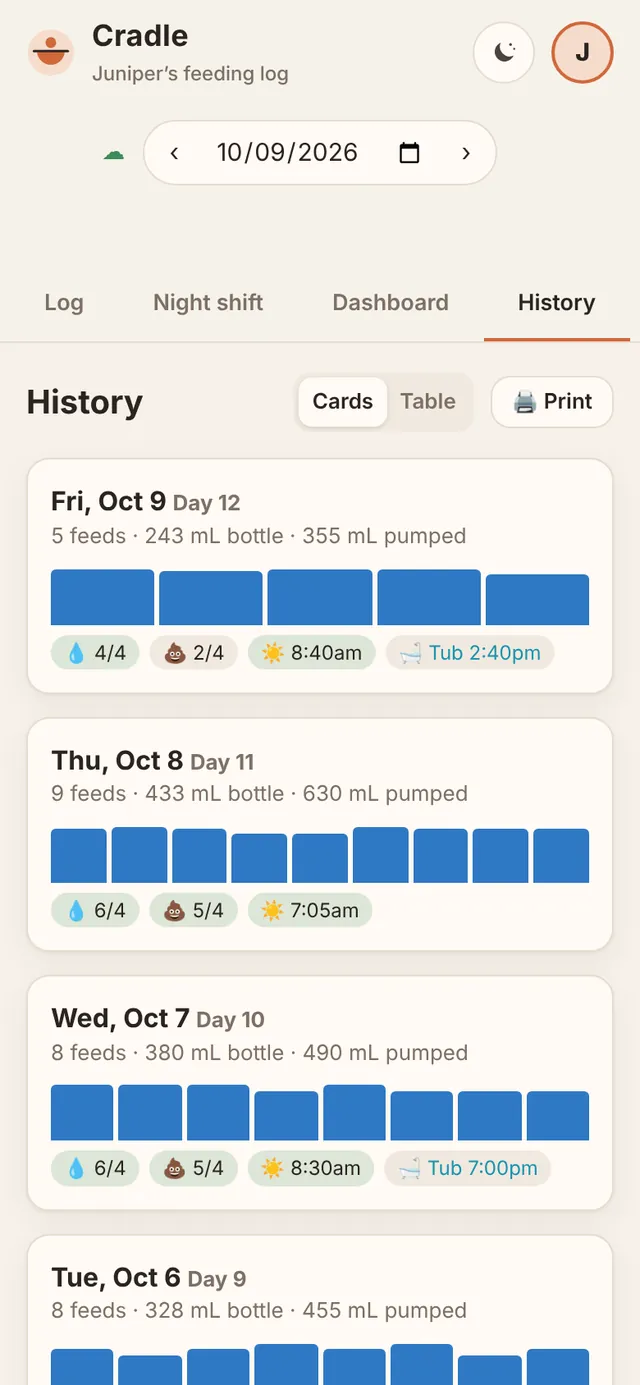
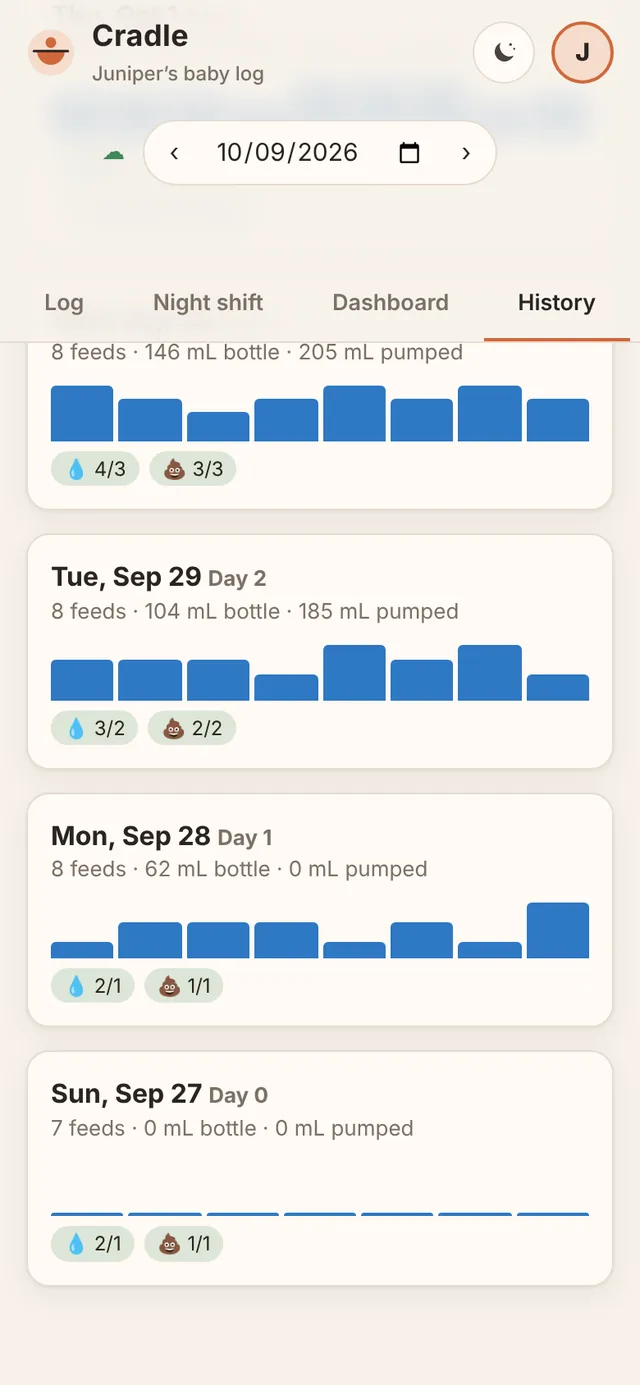
New tagline: "Family baby log" and "Baby log"
Cradle works however a baby is fed, so the tagline no longer says
triple-feeding.

- Splash and sign-in: "Family baby log"
- Everywhere else: "Baby log" (header, or "Juniper's baby log"; profile
  menu; About; browser tab; installed app name and description; printed
  day sheet; doctor report footer; family welcome; share invite)
- README, overview, and the Using Cradle guide say Cradle is built for
  triple feeding and works just as well for nursing or bottles alone
- Screenshots retaken with the new header

Claude-Session: https://claude.ai/code/session_01C2LP9XX3HMhgrsmSLqk1xr

Changed region(s): [[0.0312, 0.2484, 0.9375, 1.0], [0.2812, 0.031, 0.4375, 0.0621]]

diff --git a/cradle.html b/cradle.html
@@ -3,7 +3,7 @@
 <head>
 <meta charset="utf-8">
 <meta name="viewport" content="width=device-width, initial-scale=1">
-<title>Cradle Feeding Log</title>
+<title>Cradle Baby Log</title>
 <style>
 :root{
   --bg:#f6f1ea;--panel:#fffaf4;--panel2:#f1e9df;--ink:#2b2420;--muted:#7d7066;--line:#e6dbcf;
@@ -538,7 +538,7 @@ body.night-on .toast{background:#2c2621;color:#d9c3a5}
   <div class="hrow">
     <div class="brand">
       <svg viewBox="0 0 32 32" aria-hidden="true"><circle cx="16" cy="16" r="15" fill="var(--accent-soft)"/><path d="M7 15h18a9 9 0 0 1-18 0z" fill="var(--accent)"/><circle cx="16" cy="9.5" r="3.5" fill="var(--accent)"/><path d="M5 15h22" stroke="var(--ink)" stroke-width="1.6" stroke-linecap="round"/><g class="spots" fill="#141414"><circle cx="11" cy="19" r="1.6"/><circle cx="19" cy="21.5" r="1.3"/><circle cx="21.5" cy="17.5" r="1"/></g></svg>
-      <div>Cradle<small id="brandSub">Triple-feeding log</small></div>
+      <div>Cradle<small id="brandSub">Baby log</small></div>
     </div>
     <div class="spacer"></div>
     <span class="saved" id="saved">Saved</span>
@@ -553,7 +553,7 @@ body.night-on .toast{background:#2c2621;color:#d9c3a5}
     <div class="menu" id="menu">
       <button class="avatar" id="menuBtn" title="Profile" aria-haspopup="true"></button>
       <div class="dd" id="dd">
-        <div class="ddhead"><b id="ddName">Cradle</b><span class="sub" id="ddSub">Triple-feeding log</span><div class="sub" style="margin-top:4px">☁ <span id="ddSync">Not signed in</span></div></div>
+        <div class="ddhead"><b id="ddName">Cradle</b><span class="sub" id="ddSub">Baby log</span><div class="sub" style="margin-top:4px">☁ <span id="ddSync">Not signed in</span></div></div>
         <div class="ddlabel">Appearance</div>
         <div class="seg" id="themeSeg">
           <button data-theme="auto">Auto</button><button data-theme="light">Light</button><button data-theme="dark">Dark</button>
@@ -850,7 +850,7 @@ body.night-on .toast{background:#2c2621;color:#d9c3a5}
   <div class="gwrap">
     <div class="glogo"><svg viewBox="0 0 32 32" aria-hidden="true"><path d="M7 15h18a9 9 0 0 1-18 0z" fill="#fff5ea"/><circle cx="16" cy="9.5" r="3.5" fill="#fff5ea"/><path d="M5 15h22" stroke="#fff5ea" stroke-width="1.8" stroke-linecap="round"/></svg></div>
     <div class="gname">Cradle</div>
-    <div class="gtag">Triple-feeding log</div>
+    <div class="gtag">Family baby log</div>
     <div id="gLoading" class="gdots"><i></i><i></i><i></i></div>
     <form id="gForm" autocomplete="on"><div id="gLogin" class="card hidden">
       <label for="gUser">Username or email</label><input id="gUser" name="username" autocomplete="username" autocapitalize="none" autocorrect="off" spellcheck="false">
@@ -1004,9 +1004,11 @@ body.night-on .toast{background:#2c2621;color:#d9c3a5}
 <div class="modal" id="aboutModal">
   <div class="card">
     <h3>About Cradle</h3>
-    <p style="margin:0 0 8px"><b>Cradle v1.11</b><br><span class="sub">A triple-feeding log that works offline and syncs between family phones through your own Supabase project. No external libraries.</span></p>
+    <p style="margin:0 0 8px"><b>Cradle v1.12</b><br><span class="sub">A baby log that works offline and syncs between family phones through your own Supabase project. No external libraries.</span></p>
     <p class="sub" style="margin:0 0 8px;padding:10px 12px;border-radius:12px;background:var(--accent-soft)"><b>Not medical advice.</b> Cradle is a notebook. Goals in the app are placeholders, so follow your pediatrician or care team, and call them if you’re worried about your baby.<br><br><b>Built with AI.</b> Cradle was built with help from Claude, an AI model by Anthropic. It has been tested but not independently reviewed, so keep backups with Export data.</p>
     <h3 style="margin-top:14px">Changelog</h3>
+    <b>v1.12</b>
+    <ul class="cl"><li>New tagline: <b>Family baby log</b> on the splash and sign-in screens, and <b>Baby log</b> everywhere else, since Cradle works however your baby is fed</li></ul>
     <b>v1.11</b>
     <ul class="cl"><li>Two people can edit the same feed at once: changes to different boxes are combined instead of one overwriting the other</li><li>While you’re typing, the rest of the Log still updates, and the box you’re in is left alone</li><li>A note says who changed what when someone else’s edit arrives, and the row flashes</li><li>Weights: review them at the top of the Weights screen, and tap <b>Edit</b> to fix one. <b>See all</b> on the Dashboard opens the list.</li></ul>
     <b>v1.10</b>
@@ -1039,7 +1041,7 @@ body.night-on .toast{background:#2c2621;color:#d9c3a5}
 <script type="application/json" id="baseData">{}</script>
 <script>
 (function(){
-const VERSION='1.11';
+const VERSION='1.12';
 const LS='cradle-feeding-v1';
 const $=s=>document.querySelector(s);
 const $$=s=>document.querySelectorAll(s);
@@ -1121,10 +1123,10 @@ function applyTheme(){
 function renderProfile(){
   const n=babyName();
   $('#menuBtn').innerHTML=n?esc(n[0].toUpperCase()):'<svg viewBox="0 0 24 24" fill="none" stroke="currentColor" stroke-width="2" stroke-linecap="round"><circle cx="12" cy="8" r="4"/><path d="M4 21c1.5-4 4.5-6 8-6s6.5 2 8 6"/></svg>';
-  $('#brandSub').textContent=n?n+'’s feeding log':'Triple-feeding log';
+  $('#brandSub').textContent=n?n+'’s baby log':'Baby log';
   $('#ddName').textContent=n||'Cradle';
   const g=goals(key(new Date()));
-  $('#ddSub').textContent=g.dol!=null&&g.dol>=0?'Day '+g.dol+' of life':(S.settings.birthDate?'Triple-feeding log':'Add a birth date in Settings');
+  $('#ddSub').textContent=g.dol!=null&&g.dol>=0?'Day '+g.dol+' of life':(S.settings.birthDate?'Baby log':'Add a birth date in Settings');
 }
 $('#menuBtn').onclick=e=>{e.stopPropagation();$('#menu').classList.toggle('open')};
 document.addEventListener('click',e=>{if(!e.target.closest('#menu'))$('#menu').classList.remove('open')});
@@ -1713,7 +1715,7 @@ function finishImport(msg){pending=null;$('#importModal').classList.remove('open
 /* Print */
 function buildPrint(){
   const d=peek(cur),t=totals(d),st=S.settings,g=goals(cur),v=vitGiven(d),rows=d.feeds.slice();while(rows.length<12)rows.push(null);
-  $('#print').innerHTML=`<h1>Triple-Feeding Daily Log${babyName()?' · '+esc(babyName()):''}</h1>
+  $('#print').innerHTML=`<h1>Daily Baby Log${babyName()?' · '+esc(babyName()):''}</h1>
   <div>Date: ${parseK(cur).toLocaleDateString(undefined,{weekday:'long',year:'numeric',month:'long',day:'numeric'})} | Target bottle: ${st.target} mL | Pump: ${st.pumpMin} to ${st.pumpMax} min${g.dol!=null&&g.dol>=0?' | Day '+g.dol+' of life, goal '+g.wet+' wet / '+g.stool+' stool':''}</div>
   <table><tr><th>#</th><th>Time</th><th>Breast</th><th>Min</th><th>Bottle (mL)</th><th>Pump (mL)</th><th>Urine</th><th>Stool</th><th>Vit D</th><th>Note</th></tr>
   ${rows.map((f,i)=>f&&f.bath?`<tr><td>${i+1}</td><td>${fmt12(f.time)}</td><td colspan="7">🛁 ${bathName(f)}</td><td>${esc(f.note)}</td></tr>`:`<tr><td>${i+1}</td><td>${f?fmt12(f.time):''}</td><td>${f?[f.left?'L':'',f.right?'R':''].filter(Boolean).join(' + ')+(f.start?' (start '+f.start+')':''):'[ ] L  [ ] R'}</td><td>${f?.mins??''}${f&&f.left&&f.right&&num(f.mins)>0?' ('+splitShort(f)+')':''}</td><td>${f?.bottle??''}</td><td>${f?.pump??''}</td><td>${f?(f.urine?'✓':''):'[ ]'}</td><td>${f?(f.stool?'✓':''):'[ ]'}</td><td>${f?(f.vitD?'✓':''):'[ ]'}</td><td>${f?esc(f.note):''}</td></tr>`).join('')}</table>
@@ -2032,7 +2034,7 @@ function buildReport(){
   ${notes.length?`<h3 style="margin:12px 0 4px;font-size:14px">Notes</h3>${notes.map(x=>`<div><b>${dlong(x.dt)}:</b> ${esc(x.d.notes)}</div>`).join('')}`:''}
   <h3 style="margin:14px 0 4px;font-size:14px">Questions for the visit</h3>
   ${'<div style="border-bottom:1px solid #999;height:22px"></div>'.repeat(4)}
-  <div style="margin-top:10px;color:#666;font-size:10px">From Cradle, a home feeding log. Volumes are as logged by parents.</div></div>`;
+  <div style="margin-top:10px;color:#666;font-size:10px">From Cradle, a home baby log. Volumes are as logged by parents.</div></div>`;
 }
 function printReport(){printMode='report';buildReport();document.body.classList.add('print-sheet');printFired=false;
   setTimeout(()=>{try{window.print()}catch(e){}setTimeout(()=>{if(!printFired){document.body.classList.remove('print-sheet');printMode=null;showBlocked('print')}},700)},50)}
@@ -2496,7 +2498,7 @@ function renderFamilyBits(){const el=$('#ddFam');if(el)el.textContent=CL.fam?CL.
 function showWelcome(){
   const nm=babyName();
   $('#welTitle').textContent='Welcome to Cradle';
-  $('#welBody').innerHTML=`<p style="margin:0 0 10px">You’re now part of <b>${esc(famName())}</b>${nm?', sharing the feeding log for <b>'+esc(nm)+'</b>':''}. Every feed, diaper, and note you log shows up for everyone in the family, and theirs show up for you, usually within a few seconds.</p>
+  $('#welBody').innerHTML=`<p style="margin:0 0 10px">You’re now part of <b>${esc(famName())}</b>${nm?', sharing the baby log for <b>'+esc(nm)+'</b>':''}. Every feed, diaper, and note you log shows up for everyone in the family, and theirs show up for you, usually within a few seconds.</p>
     <p style="margin:0 0 6px"><b>A few things to try:</b></p>
     <ul class="cl" style="margin-top:0"><li><b>+ Log feed now</b> when a feed starts</li><li><b>Night shift</b> for big, dim buttons at 3am</li><li>The <b>Dashboard</b> for trends and a doctor report</li><li><b>Change password</b> in the profile menu to make the account yours</li></ul>
     <p style="margin:10px 0 0">So glad you’re here. 💛</p>`;
@@ -2531,7 +2533,7 @@ function renderFamily(){
 $('#familyModal').addEventListener('click',async e=>{
   const t=e.target,f=CL.fam||{};
   const run=async(fn,args,msg)=>{try{CL.fam=await clRpc(fn,args);clSave();renderFamily();if(msg)toast(msg)}catch(err){toast(err.message||'Something went wrong')}};
-  const shareMsg=()=>`Join ${famName()} on Cradle, our baby feeding log.\n\n1. Open ${location.origin+location.pathname}\n2. Tap “New here? Create an account”\n3. Enter this share key: ${f.join_code}`;
+  const shareMsg=()=>`Join ${famName()} on Cradle, our baby log.\n\n1. Open ${location.origin+location.pathname}\n2. Tap “New here? Create an account”\n3. Enter this share key: ${f.join_code}`;
   if(t.id==='famInvite'){const em=$('#famEmail').value.trim();if(!em.includes('@')){toast('Enter their email address');return}await run('cradle_invite',{h:CL.household,p_email:em},'Added '+em+'. They join next time they open Cradle.')}
   else if(t.id==='famShare'){const m=shareMsg();if(navigator.share){try{await navigator.share({title:'Join us on Cradle',text:m})}catch(e){}}else{copyText(m)?toast('Invite message copied. Paste it in a text.'):toast('Key: '+f.join_code)}}
   else if(t.id==='famNewKey'){$('#familyModal').classList.remove('open');const ok=await ask('Make a new share key? The old key stops working right away. Everyone already in the family stays in.','New key');$('#familyModal').classList.add('open');if(ok)await run('cradle_new_code',{h:CL.household},'New share key ready')}

diff --git a/docs/overview.html b/docs/overview.html
@@ -206,7 +206,7 @@ footer code{font-family:var(--mono); font-size:13px}
   </div>
   <div class="hero-grid">
     <div>
-      <p class="eyebrow">Newborn triple-feeding log</p>
+      <p class="eyebrow">Baby log</p>
       <h1 style="margin-top:14px">Every feed, every diaper, <em>every 3am</em>, on one row.</h1>
       <p class="lede">Nurse, bottle top-up, pump, wet, stool, Vitamin D, and bath time, logged in a few taps and shared live with everyone on feeding duty. Built for tired hands, dark rooms, and the pediatrician's questions.</p>
       <div class="chips">
@@ -229,7 +229,7 @@ footer code{font-family:var(--mono); font-size:13px}
   <div class="sec-head">
     <p class="eyebrow">The triple-feed cycle</p>
     <h2>Three parts of one feed, logged as one row.</h2>
-    <p class="lede">Triple feeding means nursing, then a bottle top-up, then pumping, every few hours, around the clock. Cradle keeps the whole session together so the totals add up the way your care team asks about them.</p>
+    <p class="lede">Triple feeding means nursing, then a bottle top-up, then pumping, every few hours, around the clock. Cradle keeps the whole session together so the totals add up the way your care team asks about them. Only nursing, or only bottles? Use the parts you need.</p>
   </div>
   <div class="cycle">
     <div class="step"><span class="num">1 · Nurse</span><span class="big">L + R</span><p>Tap the sides you used. The first side gets a dot, so you know where to start next time. A ▶ timer fills in the minutes, and a slider splits them between sides.</p></div>

diff --git a/build_pwa.py b/build_pwa.py
@@ -57,7 +57,7 @@ head = '''<meta name="viewport" content="width=device-width, initial-scale=1, vi
 <meta name="mobile-web-app-capable" content="yes">
 <meta name="apple-mobile-web-app-capable" content="yes">
 <meta name="apple-mobile-web-app-title" content="Cradle">
-<meta name="description" content="Offline triple-feeding log for newborns">
+<meta name="description" content="Baby log that works offline and syncs between family phones">
 <link rel="manifest" href="manifest.webmanifest">
 <link rel="icon" type="image/png" sizes="192x192" href="icons/icon-192.png">
 <link rel="apple-touch-icon" href="icons/apple-touch-icon.png">'''
@@ -67,8 +67,8 @@ open(os.path.join(out, 'index.html'), 'w').write(html)
 
 # 3) manifest
 manifest = {
-  "name": "Cradle Feeding Log", "short_name": "Cradle",
-  "description": "Offline triple-feeding log for newborns",
+  "name": "Cradle Baby Log", "short_name": "Cradle",
+  "description": "Baby log that works offline and syncs between family phones",
   "start_url": "./", "scope": "./", "display": "standalone", "orientation": "portrait",
   "background_color": "#f6f1ea", "theme_color": "#d0683a",
   "icons": [

diff --git a/README.md b/README.md
@@ -4,8 +4,8 @@
 
 <h1 align="center">Cradle</h1>
 
-<p align="center"><b>A newborn triple-feeding log for tired parents.</b><br>
-Nurse, bottle top-up, pump, diapers, and Vitamin D on one row, shared live between family phones, and usable one-handed at 3am.</p>
+<p align="center"><b>A baby log for tired parents.</b><br>
+Nurse, bottle, pump, diapers, Vitamin D, and baths, shared live between family phones and usable one-handed at 3am. Built for triple feeding, and just as handy if you only nurse or only bottle feed.</p>
 
 > [!IMPORTANT]
 > **Cradle is not medical advice.** It is a notebook, not a clinical tool. Feeding and diaper goals in the app are placeholders: always follow your pediatrician, lactation consultant, or care team. **Cradle was built with AI assistance (Claude, by Anthropic).** The code was written and reviewed with an AI model, has not been independently audited, and comes with no warranty. See [DISCLAIMER.md](DISCLAIMER.md).

diff --git a/CHANGELOG.md b/CHANGELOG.md
@@ -1,5 +1,14 @@
 # Changelog
 
+## v1.12
+
+**New tagline**
+- **Family baby log** on the splash and sign-in screens; **Baby log** everywhere else:
+  - the header (or *Juniper's baby log* once the baby's name is set) and the profile menu
+  - the About dialog, the browser tab, and the installed app's name and description
+  - the printed day sheet, the doctor report footer, the family welcome, and the share invite
+- Cradle is still built around triple feeding, and the docs now say it works just as well for nursing or bottle feeding alone
+
 ## v1.11
 
 **Editing together**

diff --git a/docs/using-cradle.md b/docs/using-cradle.md
@@ -11,7 +11,7 @@ A tour of every screen, for the people doing the feeding. The same tips live in 
 
 ## The triple-feed cycle
 
-Each session has three parts: **nurse** at the breast, offer a **bottle** top-up, then **pump**. Log all three on **one row**.
+Each session has three parts: **nurse** at the breast, offer a **bottle** top-up, then **pump**. Log all three on **one row**. If you only nurse or only bottle feed, fill in just those parts; everything else works the same.
 
 ## Log
 
